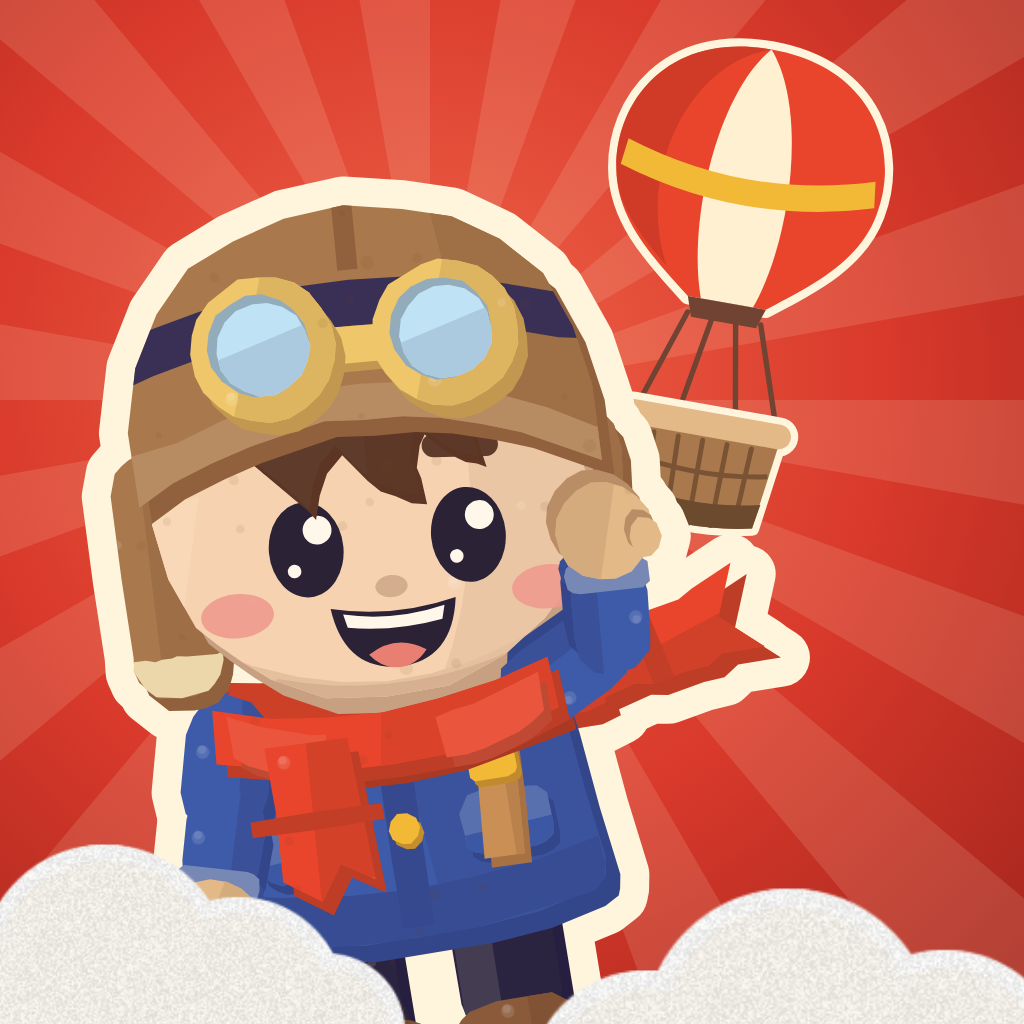
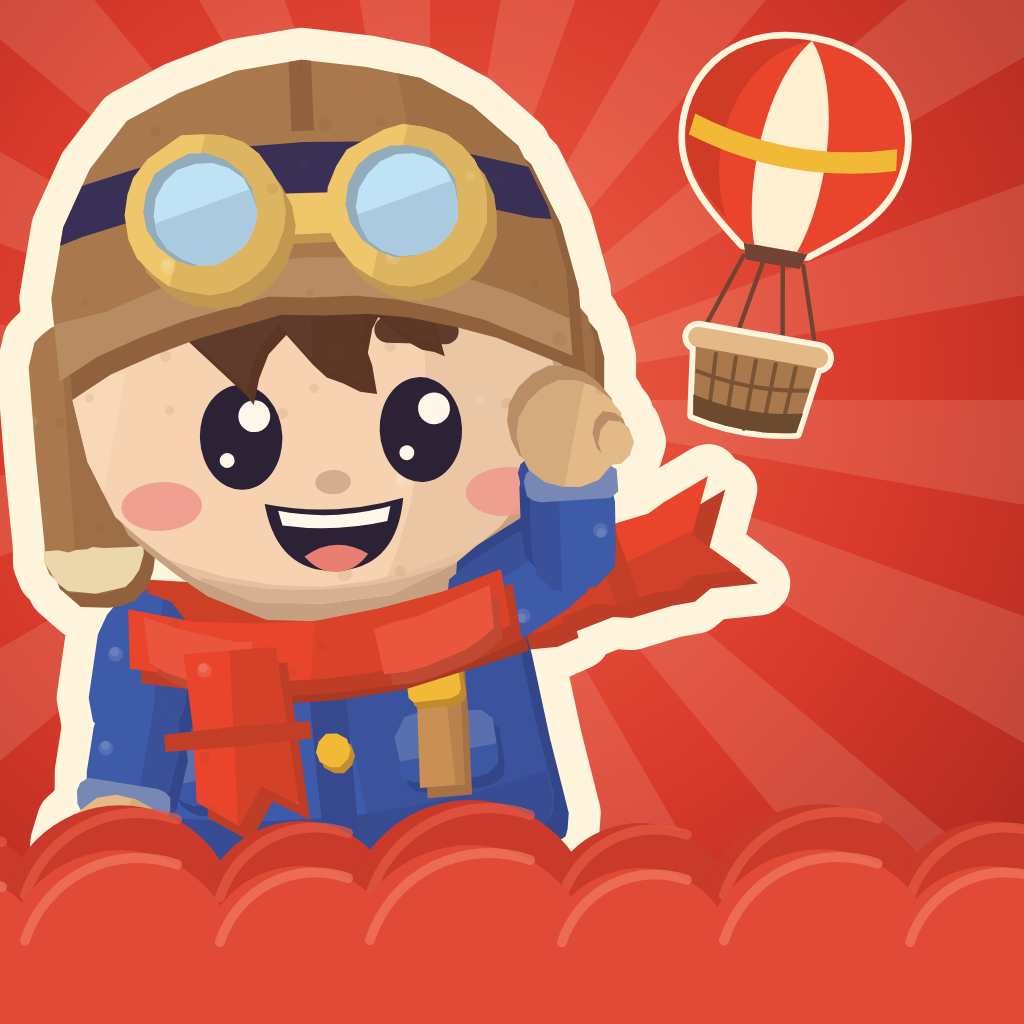
Ícono como el original: Nilo pegado a la izquierda en primer plano (torso), saludando, globo detrás arriba a la derecha y nubes rojas de papel abajo; Android adaptativo con la misma composición dentro del círculo seguro
Claude-Session: https://claude.ai/code/session_017FkcQpDzkf2gnNUK4w8AxS

diff --git a/scripts/iconos/icono.html b/scripts/iconos/icono.html
@@ -9,7 +9,8 @@ import {heroFor} from './paper-voyager/elenco.js';
 import * as P from './paper-voyager/paper.js';
 const q=new URLSearchParams(location.search), mode=q.get('m'), S=+q.get('s')||1024;
 const c=document.getElementById('c'); c.style.width=c.style.height=S+'px';
-const H=heroFor('nilo','base'), wave=H.wave[3];
+const H=heroFor('nilo','base'), wave=H.wave[3], look=H.at(0,{lx:1,ly:0,blink:0});
+const POSE=q.get('pose')==='look'?look:wave;
 let cloud=''; try{cloud=P.artThumb('nube');}catch(e){}
 const BALL=`<svg viewBox="0 0 160 250" role="img" aria-label="Paper Voyager"><path d="M62 142 L46 190 M98 142 L114 190 M74 144 L66 190 M86 144 L94 190" stroke="#704332" stroke-width="2.6" stroke-linecap="round"/><g transform="translate(-16 0) scale(1.6)"><g stroke="#FFF4DC" stroke-width="5" stroke-linejoin="round"><path d="M60 6 C92 6 104 30 100 50 C97 66 82 76 72 84 L48 84 C38 76 23 66 20 50 C16 30 28 6 60 6Z" fill="#E8452C"/></g><path d="M60 6 C92 6 104 30 100 50 C97 66 82 76 72 84 L48 84 C38 76 23 66 20 50 C16 30 28 6 60 6Z" fill="#E8452C"/><path d="M60 6 C74 22 76 62 68 84 L52 84 C44 62 46 22 60 6Z" fill="#FFF0D2"/><path d="M60 6 C36 14 26 50 40 76 C30 68 22 60 20 50 C16 30 28 6 60 6Z" fill="#B93322" opacity=".55"/><path d="M22 40 Q60 52 98 40 L99 48 Q60 60 21 48Z" fill="#F2B937"/><path d="M48 84 L72 84 L70 90 L50 90Z" fill="#704332"/></g><g class="inl" transform="translate(11 106) scale(1.1)"></g><g stroke="#FFF4DC" stroke-width="7" stroke-linejoin="round"><path d="M43 196 H117 L111 240 Q80 247 49 240Z" fill="#A9794D"/><rect x="38" y="188" width="84" height="12" rx="6" fill="#E2B987"/></g><path d="M43 196 H117 L111 240 Q80 247 49 240Z" fill="#A9794D"/><rect x="38" y="188" width="84" height="12" rx="6" fill="#E2B987"/><path d="M56 202 L58 240 M68 202 L69 242 M80 202 V243 M92 202 L91 242 M104 202 L102 240" stroke="#7A5334" stroke-width="2.4" stroke-linecap="round"/><path d="M47 228 Q80 236 113 228 L111 240 Q80 247 49 240Z" fill="#6B4A2E"/><path d="M46 214 Q80 221 114 214" stroke="#7A5334" stroke-width="2.4" fill="none"/></svg>`;
 const balloon=(nilo,w)=>{const d=document.createElement('div');d.innerHTML=BALL;const sv=d.firstElementChild;sv.setAttribute('width',w);sv.setAttribute('height',w*250/160);
@@ -20,11 +21,13 @@ const k=S/1024, img=(u,x,y,w,op=1)=>u?`<img src="${u}" style="position:absolute;
 const nilo=(x,y,w,rot,f)=>`<div style="position:absolute;left:${x*k}px;top:${y*k}px;width:${w*k}px;height:${w*k}px;transform:rotate(${rot}deg)">${f.replace('<svg',`<svg width="${w*k}" height="${w*k}" overflow="visible"`)}</div>`;
 const bal=(x,y,w,rot,f)=>`<div style="position:absolute;left:${x*k}px;top:${y*k}px;transform:rotate(${rot}deg);transform-origin:50% 0">${balloon(f,w*k)}</div>`;
 const L=JSON.parse(q.get('L')||'{}'); // ajustes de posición sin tocar el archivo
-const NX=L.nx??-150, NY=L.ny??150, NW=L.nw??1060, BX=L.bx??610, BY=L.by??30, BW=L.bw??330;
+const NX=L.nx??-270, NY=L.ny??0, NW=L.nw??1170, BX=L.bx??680, BY=L.by??25, BW=L.bw??270;
+// nubes de papel rojizas, como en el ícono original
+const clouds=(y,col,hi)=>{const C=[[-40,70],[120,95],[300,80],[470,100],[640,78],[820,96],[990,80]];return `<svg viewBox="0 0 1024 1024" width="${S}" height="${S}" style="position:absolute;inset:0"><g transform="translate(0 ${y})">${C.map(([x,r])=>`<circle cx="${x}" cy="${r*.2}" r="${r*1.25}" fill="${col}"/>`).join('')}<rect x="-50" y="30" width="1124" height="400" fill="${col}"/>${C.map(([x,r])=>`<path d="M${x-r} ${r*.2-r*.3} A${r*1.25} ${r*1.25} 0 0 1 ${x+r*.6} ${r*.2-r*1.1}" stroke="${hi}" stroke-width="10" fill="none" stroke-linecap="round" opacity=".7"/>`).join('')}</g></svg>`;};
 let h='';
 if(mode!=='fg') h+=BG;
-if(mode==='icon'){ h+=bal(BX,BY,BW,10,''); h+=nilo(NX,NY,NW,-9,wave); h+=img(cloud,-160,820,600,1)+img(cloud,480,860,700,1);}
-if(mode==='bg'){ h+=img(cloud,-100,760,600,1)+img(cloud,520,800,640,1);} // Android adaptativo: las nubes van en el fondo
-if(mode==='fg'){ h+=bal(580,170,220,10,''); h+=nilo(90,230,700,-9,wave);}
+if(mode==='icon'){ h+=bal(BX,BY,BW,10,''); h+=nilo(NX,NY,NW,L.rot??-6,POSE); h+=clouds(905,'#C93A2B','#E55A45')+clouds(950,'#E04A36','#F07A60');}
+ // Android adaptativo: las nubes van en el fondo
+if(mode==='fg'){ h+=bal(650,175,165,10,''); h+=nilo(70,215,830,-6,POSE); h+=clouds(850,'#C93A2B','#E55A45')+clouds(890,'#E04A36','#F07A60');} // Android adaptativo: todo dentro del círculo seguro
 c.innerHTML=h; document.title='ok';
 </script></body></html>
